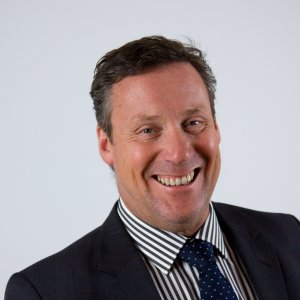
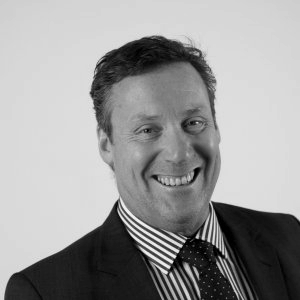
made olle image black and white

Changed region(s): [[0.3, 0.21, 0.75, 0.78], [0.75, 0.99, 0.78, 1.0]]

diff --git a/team.html b/team.html
@@ -150,7 +150,7 @@
                 <h3 class="text-center">
                     Tom Shearer
                     <small class="block">
-                        Director, Dublin Office
+                        Director, Irish Office
                     </small>
                 </h3>
                 <p>
@@ -179,7 +179,7 @@
                 <h3 class="text-center">
                     Olle Fält
                     <small class="block">
-                        Director, Växjö Office
+                        Director, Swedish Office
                     </small>
                 </h3>
                 <p>
